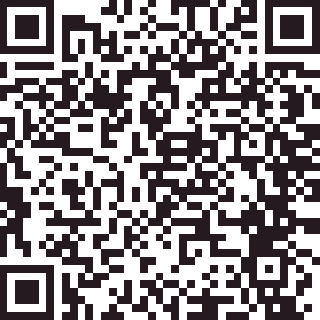
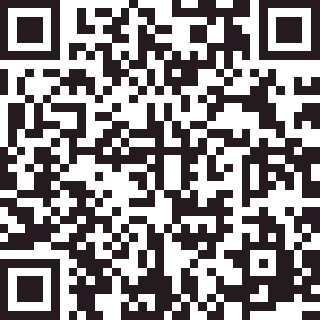
Fix hero label centering and map location accuracy
- MOTERISKI DRABUZIAI now centers under the logo's own box (wrapped
  logo+label in .hero-brand at the same max-width) instead of the full
  page width.
- Store map embeds and QR/directions links now use precise lat/lng
  coordinates (geocoded from the real addresses) instead of free-text
  search, which could resolve ambiguously and made both maps appear to
  point at the same place. Coordinates: Seskine 54.7152955,25.2464482,
  Pasilaiciai 54.7244919,25.2328594.

diff --git a/index.html b/index.html
@@ -93,8 +93,12 @@
 
   .brand span { color: var(--accent-color); }
 
-  .brand-logo {
+  .hero-brand {
     width: min(100%, 460px);
+  }
+
+  .brand-logo {
+    width: 100%;
     height: auto;
     display: block;
   }
@@ -107,6 +111,7 @@
   }
 
   .hero-kicker {
+    width: 100%;
     margin-top: 0.85rem;
     text-align: center;
     font-weight: 700;
@@ -346,8 +351,10 @@
 <header class="hero">
   <div class="hero-shape" aria-hidden="true"></div>
   <div class="wrap">
-    <img class="brand-logo" src="assets/logo-mark.png" width="1538" height="527" alt="Slebutė">
-    <p class="hero-kicker">MOTERIŠKI DRABUŽIAI</p>
+    <div class="hero-brand">
+      <img class="brand-logo" src="assets/logo-mark.png" width="1538" height="527" alt="Slebutė">
+      <p class="hero-kicker">MOTERIŠKI DRABUŽIAI</p>
+    </div>
     <nav class="hero-nav" aria-label="Greitos nuorodos">
       <a class="btn btn-primary" href="#parduotuves">Parduotuvės</a>
       <a class="btn btn-ghost" href="#kontaktai">Kontaktai</a>
@@ -374,13 +381,13 @@
           <div class="store-media">
             <div class="store-map">
               <iframe
-                src="https://www.google.com/maps?q=%C5%A0e%C5%A1kin%C4%97s%20g.%2032,%20Vilnius,%2007157&output=embed"
+                src="https://www.google.com/maps?q=54.7152955,25.2464482&hl=lt&z=16&output=embed"
                 loading="lazy"
                 referrerpolicy="no-referrer-when-downgrade"
                 title="Slebutė Šeškinė žemėlapyje"
                 aria-label="Slebutė Šeškinė žemėlapyje"></iframe>
             </div>
-            <a class="store-qr" href="https://www.google.com/maps/dir/?api=1&destination=%C5%A0e%C5%A1kin%C4%97s%20g.%2032,%20Vilnius,%2007157" target="_blank" rel="noopener">
+            <a class="store-qr" href="https://www.google.com/maps/dir/?api=1&destination=54.7152955,25.2464482" target="_blank" rel="noopener">
               <img src="assets/qr-seskine.png" width="140" height="140" alt="QR kodas su nuoroda į kryptis iki Slebutė Šeškinė">
               <span>Nuskenuokite krypčiai</span>
             </a>
@@ -398,13 +405,13 @@
           <div class="store-media">
             <div class="store-map">
               <iframe
-                src="https://www.google.com/maps?q=Laisv%C4%97s%20pr.%2082,%20Vilnius,%2006128&output=embed"
+                src="https://www.google.com/maps?q=54.7244919,25.2328594&hl=lt&z=16&output=embed"
                 loading="lazy"
                 referrerpolicy="no-referrer-when-downgrade"
                 title="Slebutė Pašilaičiai žemėlapyje"
                 aria-label="Slebutė Pašilaičiai žemėlapyje"></iframe>
             </div>
-            <a class="store-qr" href="https://www.google.com/maps/dir/?api=1&destination=Laisv%C4%97s%20pr.%2082,%20Vilnius,%2006128" target="_blank" rel="noopener">
+            <a class="store-qr" href="https://www.google.com/maps/dir/?api=1&destination=54.7244919,25.2328594" target="_blank" rel="noopener">
               <img src="assets/qr-pasilaiciai.png" width="140" height="140" alt="QR kodas su nuoroda į kryptis iki Slebutė Pašilaičiai">
               <span>Nuskenuokite krypčiai</span>
             </a>
